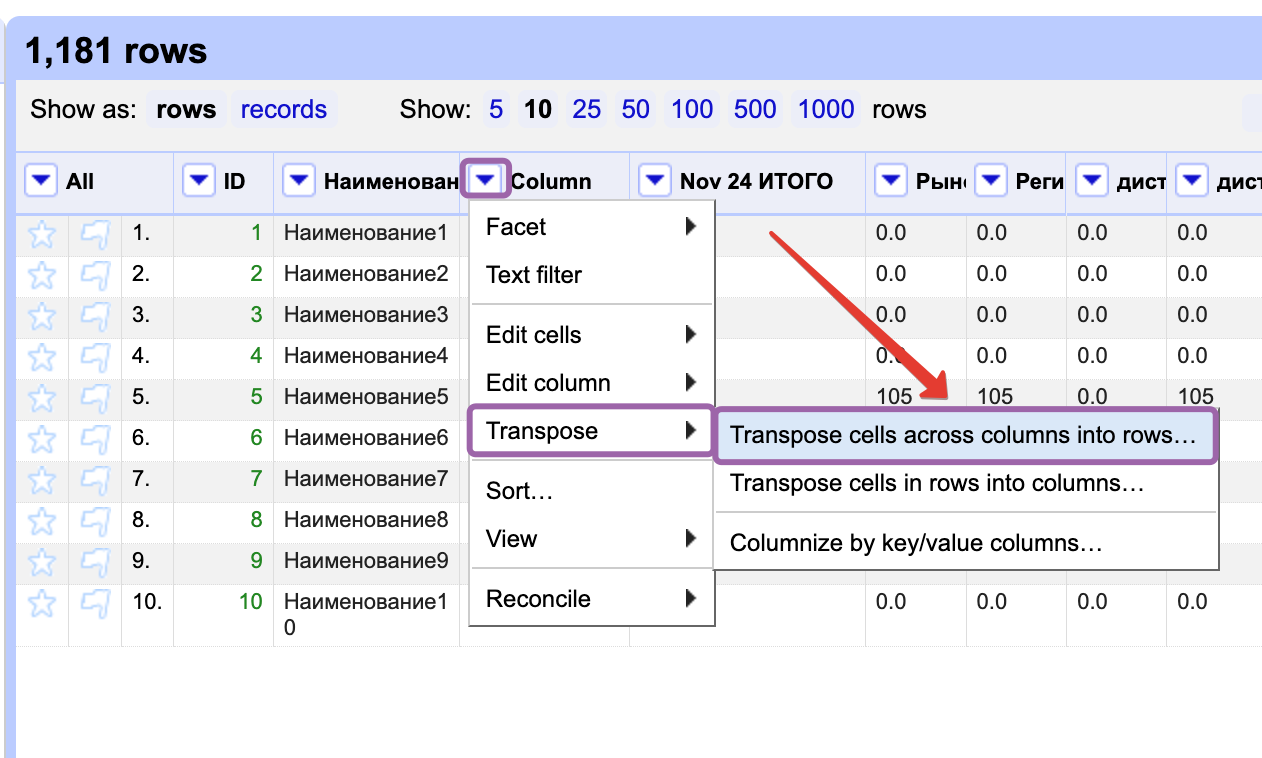
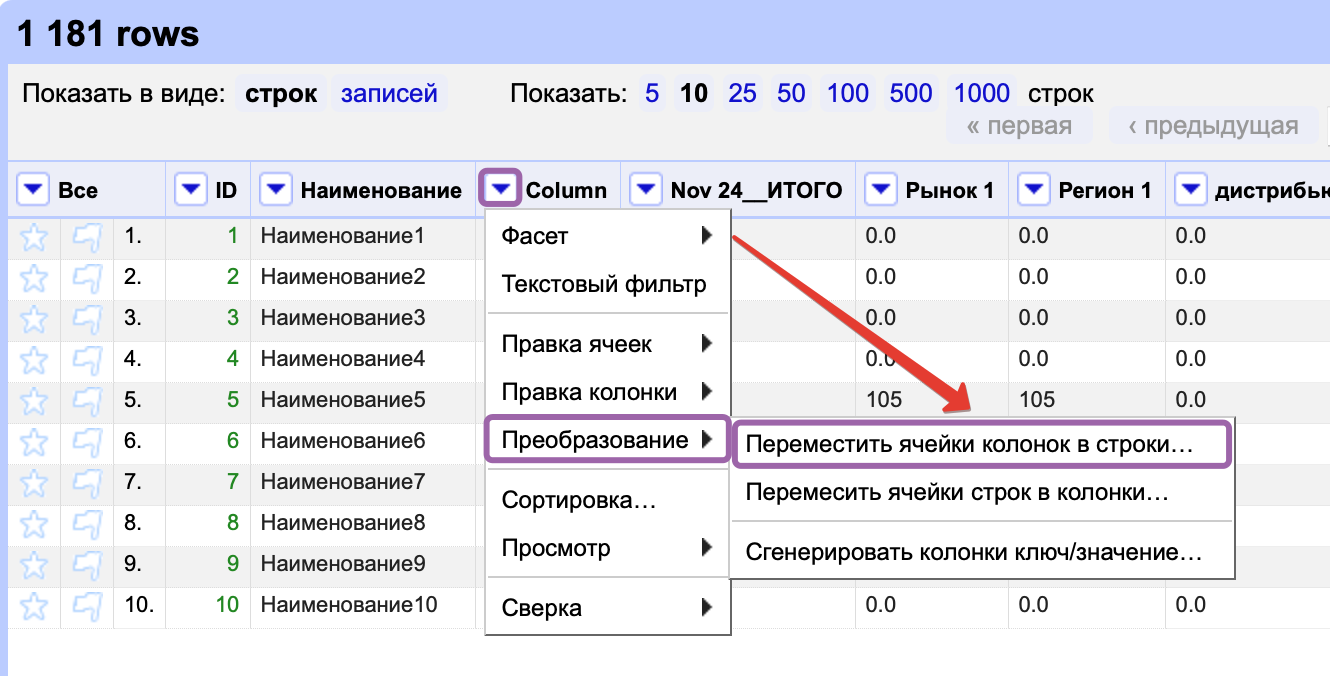
fix(excel_import): russian language

Changed region(s): [[0.0, 0.0, 1.0, 1.0], [0.3708, 0.8698, 0.4326, 0.932]]

diff --git a/README.md b/README.md
@@ -56,7 +56,7 @@ curl -L -o "План продаж.xlsx" \
 
 ### Транспонируем
 
-- Выбираем на колонку Column > Transpose > Transpose cells across columns into rows
+- Выбираем на колонку Column > Преобразование > Переместить ячейки колонок в строки
 ![img](img/choose_transpose.png)
 
 - Во всплывающем окне проставляем:
